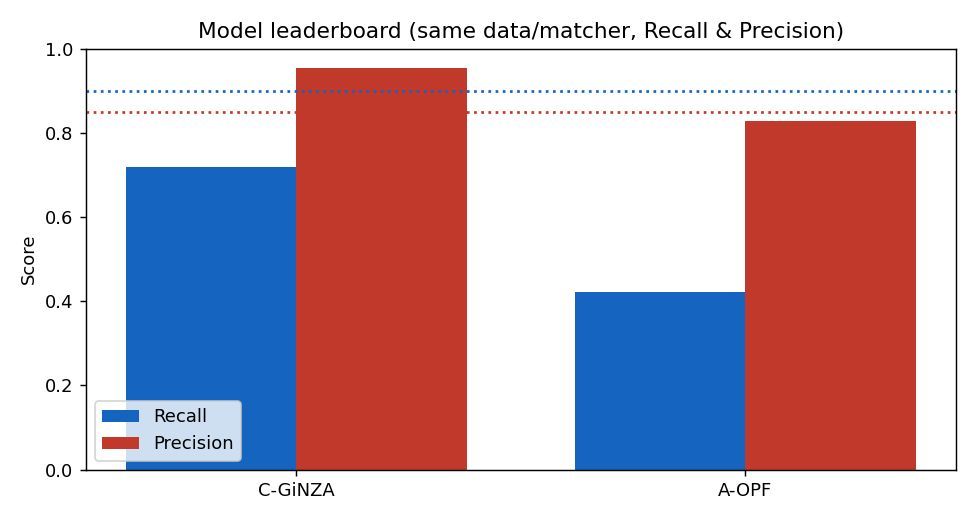
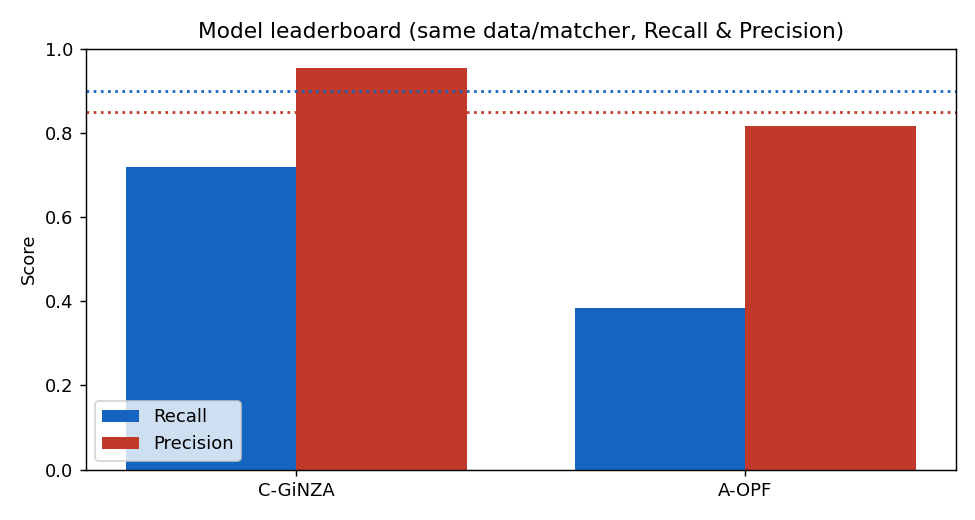
feat(eval): B1 後処理(PERSON境界整形+DATE正規表現) を test 実測 (#8) (#33)
- 05_b1_postproc.py: OPF出力に汎用日本語後処理。PERSON境界整形(「ラベル：」前置き
  除去/空白区切りは最終セグメント/末尾の括弧・敬称・助詞・数字除去)と、private_date が
  JP書式(和暦/略記/西暦/slash)で外す分の正規表現補完。テンプレ語彙には依存させない。
- #20準拠: dev75で調整→test225で最終1回。dev調整行は台帳から除き、台帳=test進捗に統一。
- 実測(test, 直接識別子untyped): B0 R0.57/P0.77 → B1 R0.70/P0.86。
  DATE 0.29→0.99、PERSON P0.65→0.85。AGE/REGION/OCC/ORGはOPF対象外で据え置き(B2へ)。
- REPORT §0/§2 反映、score_progression 図を再生成。

Changed region(s): [[0.5846, 0.5538, 0.7692, 0.6154], [0.7692, 0.2154, 0.9538, 0.2462]]

diff --git a/scripts/05_b1_postproc.py b/scripts/05_b1_postproc.py
@@ -1,0 +1,316 @@
+"""B1: rule-based post-processing on top of stock OPF predictions (#8).
+
+B0 (#7) showed two clear, fixable weaknesses on the synthetic set:
+  - PERSON Recall 0.38 — OPF over-extends spans ("佐藤花子（72歳）は" as one span),
+    so char IoU<0.5 against the gold name. Fix = trim trailing honorifics /
+    particles / parenthetical / age / punctuation from PERSON spans.
+  - DATE Recall 0.29 — OPF misses 和暦 (令和X年…) and 略記 (RX.X.X). Fix = add
+    high-precision regex DATE spans, de-duped against existing predictions.
+PHONE/EMAIL/ID are already saturated and left untouched.
+
+Fairness (#20): tune/inspect on the **dev** split only, then run **test** once.
+Same matcher as B0 (char IoU>=0.5, P/R, no F1 #24). Rows -> ledger stage="B1".
+
+Usage:
+  uv run python scripts/05_b1_postproc.py --split dev  --diagnose   # tuning
+  uv run python scripts/05_b1_postproc.py --split test             # final, once
+"""
+from __future__ import annotations
+
+import argparse
+import json
+import re
+import subprocess
+import sys
+import tempfile
+import time
+import uuid
+from collections import defaultdict
+from pathlib import Path
+
+sys.path.insert(0, str(Path(__file__).resolve().parent))
+from ledger import append_row  # noqa: E402
+from labelmap import OPF_TO_SPEC, SPEC_LABELS  # noqa: E402
+
+ROOT = Path(__file__).resolve().parent.parent
+GOLD = ROOT / "data" / "eval" / "eval_300.jsonl"
+IOU_THRESH = 0.5
+DIRECT = {"PERSON", "ADDRESS", "PHONE", "EMAIL", "DATE", "ID"}
+
+Span = tuple[str, int, int]
+
+# ---- PERSON boundary trim (generic JP rules; no template-specific vocab) ----
+# Trailing honorifics / titles to drop from a PERSON span.
+_HONORIFICS = ["先生", "さん", "ちゃん", "くん", "様", "氏", "君", "殿"]
+# A PERSON span ends before any of these (paren / age digits / punctuation).
+_TRAIL_BOUNDARY = re.compile("[（(［[【「』」、。，．！？・0-9０-９]")
+_TRAIL_PARTICLES = "はがをにのへともやでだ"
+_LEAD_COLONS = "：:｜|＞>"          # "退院サマリ：<name>" style record prefixes
+_WS = " 　\t\n"
+
+
+def trim_person(text: str, start: int, end: int) -> tuple[int, int] | None:
+    """Clean an over-extended PERSON span. Generic rules only:
+    1. drop a leading "label：/|/>" record prefix (keep text after last such char),
+    2. if whitespace remains, keep the last whitespace-delimited segment (OPF often
+       merges "<title> <name>"; the name is last),
+    3. cut at the first trailing boundary (paren/age/punct),
+    4. strip trailing honorifics/particles and surrounding ws.
+    """
+    s, e = start, end
+    surf = text[s:e]
+    # 1. leading record prefix up to last colon-like char
+    lead = max(surf.rfind(c) for c in _LEAD_COLONS)
+    if lead >= 0:
+        s += lead + 1; surf = text[s:e]
+    # 2. last whitespace-delimited segment
+    ws = max(surf.rfind(c) for c in _WS)
+    if ws >= 0:
+        s += ws + 1; surf = text[s:e]
+    # strip leading ws/particles left over
+    while surf and (surf[0] in _WS or surf[0] in "・の"):
+        s += 1; surf = text[s:e]
+    # 3. cut at first trailing boundary char
+    m = _TRAIL_BOUNDARY.search(surf)
+    if m:
+        e = s + m.start(); surf = text[s:e]
+    # 4. trailing honorifics (repeatable) + one particle + ws
+    changed = True
+    while changed:
+        changed = False
+        for h in _HONORIFICS:
+            if surf.endswith(h):
+                e -= len(h); surf = text[s:e]; changed = True
+    if surf and surf[-1] in _TRAIL_PARTICLES:
+        e -= 1; surf = text[s:e]
+    while e > s and text[e - 1] in _WS:
+        e -= 1
+    if e <= s:
+        return None
+    return s, e
+
+
+# ---- DATE regex (和暦 / 略記 / 西暦 / slash) --------------------------------
+_DATE_PATTERNS = [
+    re.compile(r"(令和|平成|昭和)\d{1,2}年\d{1,2}月\d{1,2}日"),
+    re.compile(r"[RHS]\d{1,2}\.\d{1,2}\.\d{1,2}"),          # R7.1.18
+    re.compile(r"\d{4}年\d{1,2}月\d{1,2}日"),
+    re.compile(r"\d{4}/\d{1,2}/\d{1,2}"),
+]
+
+
+def regex_dates(text: str) -> list[Span]:
+    out: list[Span] = []
+    for pat in _DATE_PATTERNS:
+        for m in pat.finditer(text):
+            out.append(("DATE", m.start(), m.end()))
+    return out
+
+
+def overlaps(a: Span, b: Span) -> bool:
+    return not (a[2] <= b[1] or b[2] <= a[1])
+
+
+def postprocess(text: str, spans: list[Span]) -> list[Span]:
+    out: list[Span] = []
+    for cat, s, e in spans:
+        if cat == "PERSON":
+            t = trim_person(text, s, e)
+            if t:
+                out.append(("PERSON", t[0], t[1]))
+        else:
+            out.append((cat, s, e))
+    # add regex DATEs that don't overlap an existing DATE prediction
+    existing_dates = [sp for sp in out if sp[0] == "DATE"]
+    for d in regex_dates(text):
+        if not any(overlaps(d, e) for e in existing_dates):
+            out.append(d)
+    return out
+
+
+# ---- matcher / metrics (same as B0) ---------------------------------------
+def iou(a: Span, b: Span) -> float:
+    s = max(a[1], b[1]); e = min(a[2], b[2])
+    inter = max(0, e - s)
+    union = (a[2] - a[1]) + (b[2] - b[1]) - inter
+    return inter / union if union else 0.0
+
+
+def match(preds, golds, *, typed):
+    pairs = []
+    for pi, p in enumerate(preds):
+        for gi, g in enumerate(golds):
+            if typed and p[0] != g[0]:
+                continue
+            v = iou(p, g)
+            if v >= IOU_THRESH:
+                pairs.append((v, pi, gi))
+    pairs.sort(reverse=True)
+    used_p, used_g, tp = set(), set(), 0
+    for _v, pi, gi in pairs:
+        if pi in used_p or gi in used_g:
+            continue
+        used_p.add(pi); used_g.add(gi); tp += 1
+    return tp
+
+
+def pr(tp, n_pred, n_gold):
+    return (tp / n_pred if n_pred else None), (tp / n_gold if n_gold else None)
+
+
+def _inv(x):
+    return (1 - x) if x is not None else None
+
+
+def _round(x):
+    return round(x, 4) if x is not None else ""
+
+
+def _fmt(x):
+    return f"{x:.3f}" if x is not None else "n/a"
+
+
+def load_gold(split):
+    out = {}
+    for line in GOLD.read_text(encoding="utf-8").splitlines():
+        rec = json.loads(line)
+        if rec["info"]["split"] != split:
+            continue
+        out[rec["text"]] = (rec["info"]["domain"],
+                            [(s["category"], s["start"], s["end"]) for s in rec["label"]])
+    return out
+
+
+def opf_raw(texts, split):
+    """Run stock OPF, return ({text: spec spans}, elapsed). Cache per split."""
+    cache = ROOT / "data" / "eval" / f"opf_raw_{split}.jsonl"
+    if cache.exists():
+        out = {}
+        for line in cache.read_text(encoding="utf-8").splitlines():
+            r = json.loads(line)
+            out[r["text"]] = [tuple(s) for s in r["spans"]]
+        print(f"(using cached OPF preds: {cache.name})")
+        return out, 0.0
+    with tempfile.TemporaryDirectory() as td:
+        gold_in = Path(td) / "in.jsonl"
+        with gold_in.open("w", encoding="utf-8") as f:
+            for t in texts:
+                f.write(json.dumps({"text": t, "label": []}, ensure_ascii=False) + "\n")
+        preds_path = Path(td) / "preds.jsonl"
+        t0 = time.time()
+        subprocess.run(["opf", "eval", str(gold_in), "--eval-mode", "untyped",
+                        "--device", "cpu", "--span-metrics-space", "char",
+                        "--predictions-out", str(preds_path),
+                        "--metrics-out", str(Path(td) / "m.json")], check=True)
+        elapsed = time.time() - t0
+        out = {}
+        for line in preds_path.read_text(encoding="utf-8").splitlines():
+            rec = json.loads(line)
+            spans = []
+            for key, coords in rec["predicted_spans"].items():
+                spec = OPF_TO_SPEC.get(key.split(":", 1)[0].strip())
+                if spec is None:
+                    continue
+                for s, e in coords:
+                    spans.append((spec, s, e))
+            out[rec["text"]] = spans
+        with cache.open("w", encoding="utf-8") as f:
+            for t, spans in out.items():
+                f.write(json.dumps({"text": t, "spans": spans}, ensure_ascii=False) + "\n")
+        return out, elapsed
+
+
+def diagnose(gold, raw):
+    """Print PERSON over-extension and missed DATE patterns (dev tuning aid)."""
+    print("\n=== PERSON: raw vs post-proc vs gold (first 12 mismatches) ===")
+    shown = 0
+    for text, (_dom, gspans) in gold.items():
+        graw = [s for s in raw.get(text, []) if s[0] == "PERSON"]
+        gpost = [s for s in postprocess(text, raw.get(text, [])) if s[0] == "PERSON"]
+        ggold = [s for s in gspans if s[0] == "PERSON"]
+        # show cases where a raw PERSON span doesn't IoU-match gold but post does, or neither
+        for rs in graw:
+            best_raw = max((iou(rs, g) for g in ggold), default=0)
+            if best_raw < IOU_THRESH and shown < 12:
+                psurf = [text[s[1]:s[2]] for s in gpost if not (s[2] <= rs[1] or rs[2] <= s[1])]
+                print(f"  raw={text[rs[1]:rs[2]]!r:30} -> post={psurf} | gold={[text[g[1]:g[2]] for g in ggold]}")
+                shown += 1
+    print("\n=== DATE: gold missed by raw OPF, recovered by regex? ===")
+    shown = 0
+    for text, (_dom, gspans) in gold.items():
+        graw = [s for s in raw.get(text, []) if s[0] == "DATE"]
+        for g in [s for s in gspans if s[0] == "DATE"]:
+            if max((iou(g, r) for r in graw), default=0) < IOU_THRESH and shown < 15:
+                rgx = [text[d[1]:d[2]] for d in regex_dates(text)
+                       if not (d[2] <= g[1] or g[2] <= d[1])]
+                print(f"  gold={text[g[1]:g[2]]!r:18} raw=MISS regex={rgx}")
+                shown += 1
+
+
+def emit(run_id, variant, domain, label, tp, n_pred, n_gold, latency, note):
+    p, r = pr(tp, n_pred, n_gold)
+    append_row({"run_id": run_id, "stage": "B1", "model": "A-OPF",
+                "variant": variant, "domain": domain, "label": label,
+                "precision": _round(p), "recall": _round(r),
+                "miss_rate": _round(_inv(r)), "false_pos_rate": _round(_inv(p)),
+                "latency_ms": latency, "seed": 20260609, "note": note})
+    return p, r
+
+
+def untyped(run_id, variant, gold, preds, domain_label, gset, split, latency=""):
+    tp = n_pred = n_gold = 0
+    for text, (_dom, gspans) in gold.items():
+        g = [s for s in gspans if s[0] in gset]
+        p = [s for s in preds.get(text, []) if s[0] in gset]
+        tp += match(p, g, typed=False)
+        n_pred += len(p); n_gold += len(g)
+    label = "ALL" if gset == set(SPEC_LABELS) else "DIRECT"
+    return emit(run_id, variant, domain_label, label, tp, n_pred, n_gold, latency,
+                f"untyped {label.lower()}, IoU>={IOU_THRESH}, split={split}, n_gold={n_gold}")
+
+
+def main() -> int:
+    ap = argparse.ArgumentParser()
+    ap.add_argument("--split", default="dev", choices=["dev", "test"])
+    ap.add_argument("--diagnose", action="store_true")
+    args = ap.parse_args()
+
+    gold = load_gold(args.split)
+    if not gold:
+        sys.exit(f"no '{args.split}' records in {GOLD}")
+    texts = list(gold)
+    raw, elapsed = opf_raw(texts, args.split)
+    latency_ms = round(elapsed * 1000 / len(texts), 1) if elapsed else ""
+
+    if args.diagnose:
+        diagnose(gold, raw)
+
+    post = {t: postprocess(t, raw.get(t, [])) for t in texts}
+    run_id = uuid.uuid4().hex[:8]
+    allL = set(SPEC_LABELS)
+
+    print(f"\nB1 post-proc on {len(texts)} '{args.split}' docs")
+    for variant, preds in [("stock", raw), ("b1_postproc", post)]:
+        p_d, r_d = untyped(run_id, variant, gold, preds, "ALL_direct", DIRECT, args.split, latency_ms)
+        untyped(run_id, variant, gold, preds, "ALL", allL, args.split, latency_ms)
+        print(f"  [{variant:12}] direct untyped: P={_fmt(p_d)} R={_fmt(r_d)}")
+
+    # typed per-label for the post-proc variant (focus labels)
+    print("  --- b1_postproc typed Recall ---")
+    for lbl in SPEC_LABELS:
+        gl = [s for _t, (_d, gs) in gold.items() for s in gs if s[0] == lbl]
+        pl = [s for t in gold for s in post.get(t, []) if s[0] == lbl]
+        if not gl and not pl:
+            continue
+        tp = sum(match([s for s in post.get(t, []) if s[0] == lbl],
+                       [s for s in gold[t][1] if s[0] == lbl], typed=True) for t in gold)
+        p, r = emit(run_id, "b1_postproc", "ALL", lbl, tp, len(pl), len(gl), "",
+                    f"typed, IoU>={IOU_THRESH}, split={args.split}, n_gold={len(gl)}")
+        print(f"    {lbl:<12} P={_fmt(p)} R={_fmt(r)} (gold={len(gl)})")
+
+    print(f"\nappended B1 rows (run_id={run_id}, split={args.split})")
+    return 0
+
+
+if __name__ == "__main__":
+    sys.exit(main())

diff --git a/REPORT.md b/REPORT.md
@@ -12,7 +12,7 @@
 ## 0. エグゼクティブサマリ
 
 - **現在地: B0（素OPF）測定完了**。合成評価300件（#5、医療/自治体/その他 各100、dev75/test225 に層化 #20）を用い、**test 225件**で素 OPF を実測（§2）。
-- 🔎 **素 OPF B0（直接識別子・untyped, IoU≥0.5）**: **R=0.57 / P=0.77**（成功基準 R≥90%・P≥85% に未達）。**強い**: PHONE(R=1.0)・ID(0.89)・EMAIL(0.86)＝構造化PII。**弱い**: **PERSON R=0.38**（最大ラベル, 境界過延長）・**DATE R=0.29**（和暦/略記）・ADDRESS P=0.48。準識別子(AGE/REGION/OCC/ORG)は**OPF設計上対象外で R=0**。詳細 → [OPF ページ](methods/opf.md)。
+- 🔎 **B0→B1（直接識別子・untyped, IoU≥0.5, test225件）**: **R 0.57→0.70 / P 0.77→0.86**。B1 後処理は OPF 出力の整形のみで、**DATE 0.29→0.99**（和暦/略記の正規表現）・PERSON 境界整形（P 0.65→0.85）が効いた。**強い**: PHONE 1.0・ID 0.89・EMAIL 0.86。**残る課題**: PERSON Recall 0.49（OPF が2人目以降を非検出＝素モデルの上限）・ADDRESS P 0.48。準識別子(AGE/REGION/OCC/ORG)は**OPF設計上対象外で R=0**→ B2 で追加学習。詳細 → [OPF ページ](methods/opf.md)。
 - 🔎 **モデル比較（パイロット実測 §3）**: 同一gold・同一マッチャ(IoU≥0.5)で OPF vs GiNZA を計測。**相補性が実数で確認**——OPFは PHONE/EMAIL(R=1.0)・ID等の**構造化PII**に強く、GiNZAは PERSON(0.94)・AGE/REGION/DATE(1.0)等の**人名・準識別子**に強い。OPFの境界過延長(PERSON R=0.41)は B1 の改善対象。用途で使い分け（アンサンブルは対象外 #18）。
 - 📘 **確定事実**: OPF は **LoRA 非対応＝フルFT のみ**。10ラベルは `--label-space-json` で直接学習可。指標は `detection.span.*`/`by_class.<label>.span.*` を台帳へ写像 [\[2\]](#ref2)。
 
@@ -39,17 +39,16 @@ flowchart LR
 
 | Stage | 説明 | Recall | Precision | 漏れ率 | 誤検出率 |
 |---|---|---:|---:|---:|---:|
-| B0 | 素モデル | **0.57** | **0.77** | 0.43 | 0.23 |
-| B1 | 後処理・正規表現 | — | — | — | — |
+| B0 | 素モデル | 0.57 | 0.77 | 0.43 | 0.23 |
+| B1 | 後処理・正規表現 | **0.70** | **0.86** | 0.30 | 0.14 |
 | B2 | 日本語追加学習 | — | — | — | — |
 
-ドメイン別(B0, 直接識別子 untyped): 医療 R=0.59/P=0.78・その他 R=0.65/P=0.76・自治体 R=0.51/P=0.75。
-全10ラベル untyped では R=0.38（OPF が構造的に出せない準識別子 4種で分母が増えるため）。
+ラベル別 typed Recall（B0→B1）: **DATE 0.29→0.99**（和暦/略記の正規表現で回収, P=0.97）・**PERSON 0.38→0.49**（境界整形で P=0.65→0.85 も改善）。PHONE 1.00 / ID 0.89 / EMAIL 0.86 / ADDRESS 0.81(P=0.48) は据え置き。AGE・REGION・OCC・ORG は **0**（OPF対象外 → B2 で追加学習）。
 
-ラベル別(B0, typed Recall): PHONE **1.00** / ID **0.89** / EMAIL **0.86** / ADDRESS 0.81(P=0.48) / PERSON **0.38** / DATE **0.29** / AGE・REGION・OCC・ORG **0**(OPF対象外)。
-→ **B1 の主対象は PERSON（境界後処理）と DATE（和暦/略記の正規表現）**。PHONE/EMAIL/ID は既に飽和。
+🔎 **B1 の設計と限界**: 後処理は **OPF 自身の出力 category の整形に限定**（PERSON 境界の汎用整形＋DATE の JP 書式補完）。AGE/REGION 等の正規表現は加えていない（OPF が扱わない category であり、追加は実質アンサンブル #18／準識別子拡張は B2 の役割）。PERSON 残差は OPF が2人目以降を**そもそも非検出**な分で、後処理では作れない＝素モデルの JP 人名再現率の上限。**合成データ上の上限性能**である点に留意（#20）。
 
-*（B1 計測後に `figures/score_progression.png` を掲載）*
+![score progression](figures/score_progression.png)
+**図0**: B0→B1 の Recall/Precision 進捗（untyped 全ラベル, test 225件）。
 
 ---
 